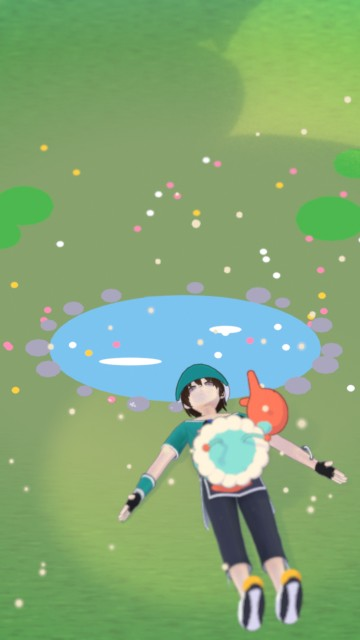
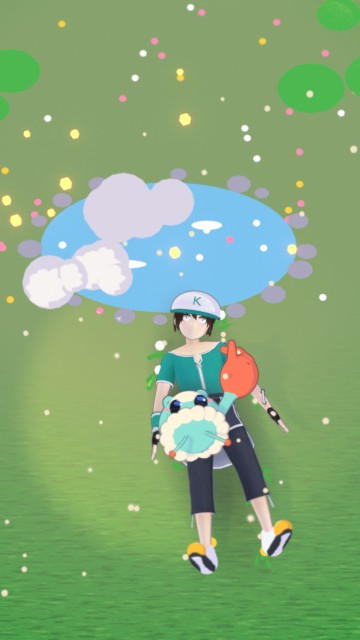
Diorama S01 hook frame: steep from his feet (tilt 70) with the shrimp leaning back on his chest so its big locked-on eyes show under its ruff (as in S16), claw cocked by his cheek, the two of them above the UI band; new OK still
Claude-Session: https://claude.ai/code/session_01PF511bGqrs1SFn3cpk5NqS

diff --git a/channels/monsters/diorama/bgqrs.py b/channels/monsters/diorama/bgqrs.py
@@ -32,7 +32,13 @@ UP = Vector((-math.sin(math.radians(HEAD_DIR)), math.cos(math.radians(HEAD_DIR))
 EAST = Vector((UP.y, -UP.x, 0))       # his left side (screen right from the south), where the shrimp's claw is
 LEAN = 40.0                           # the shrimp leans back on his chest, so its face tips up toward the camera
 BLUR = 12.0
-S01_CAM = (45.0, 60.0, 110.0, 0.0, 3.0)   # S01: tilt, dist, lens, yaw, aim past his eyes toward his head (units)
+# S01 (the hook: the shrimp's big eyes against the cocked claw must read). The puff-shrimp's face sits under its
+# cream ruff, so it shows from above only when the shrimp faces his face and leans back (as in S16); his face shows
+# only from his chin side (lying face up, his cap's brim points at the sky). So: from the south, steep (tilt 70), the
+# shrimp leaning back 50. tilt, dist, lens, yaw, aim offsets toward his head and away from the camera (units); the
+# shrimp's lean back (deg).
+S01_CAM = (70.0, 62.0, 110.0, 0.0, 1.5, 0.0)
+S01_LEAN = 50.0
 
 
 # ---------------------------------------------------------------- the world after the snap
@@ -70,13 +76,14 @@ LYING = [("spine", (0, 0, 1)), ("chest", (0, 0, 1)), ("upper_chest", (0, 0, 1)),
          ("left_foot", (-0.25, 1, -0.3)), ("right_foot", (0.3, 1, -0.3))]
 
 
-def _kai():
+def _kai(head=None):
     """Kai on his back at MAP["kai_down"], relaxed (LYING), head toward the pond; a soft contact shadow under him and
-    grass tufts over his outline, so he lies IN the grass."""
+    grass tufts over his outline, so he lies IN the grass. `head`: another head direction (his own frame)."""
     from channels.monsters.ep01v2 import helper10 as s15
     rig = hero.load((0, 0, 0), scale=s3d.KAI_SCALE, outfit="world")
     rot = (math.pi / 2, 0, math.pi + math.radians(HEAD_DIR))
-    s15._pose(rig, LYING, (HIPS[0], HIPS[1], 0.5), rot)
+    spec = [(b, head if (b == "head" and head) else d) for b, d in LYING]
+    s15._pose(rig, spec, (HIPS[0], HIPS[1], 0.5), rot)
     hip = s15._world(rig, "hips")
     rig["arm"].location += Vector((HIPS[0] - hip.x, HIPS[1] - hip.y, 0))
     s15._ground(rig)
@@ -110,15 +117,16 @@ def _tufts(hip, seed=21):
             bpy.context.object.data.materials.append(rnd.choice(petals))
 
 
-def _shrimp(rig, n, claw="face"):
+def _shrimp(rig, n, claw="face", yaw=None, lean=LEAN, side=1):
     """Low on his chest, facing his face, leaning back. claw="face": cocked beside his face, pointing at it (S01's
     threat); "jacket": held out over his chest so its drops land on the jacket (S17). Breathes on 2s."""
-    sh = s3d._shrimp(rig, yaw=180 + HEAD_DIR, chest_offset=tuple(-UP * 0.55 + Vector((0, 0, 0.15))))
-    sh["root"].rotation_euler = (math.radians(-LEAN), 0, math.radians(180 + HEAD_DIR))
+    yaw = 180 + HEAD_DIR if yaw is None else yaw
+    sh = s3d._shrimp(rig, yaw=yaw, chest_offset=tuple(-UP * 0.55 + Vector((0, 0, 0.15))))
+    sh["root"].rotation_euler = (math.radians(-lean), 0, math.radians(yaw))
     bpy.context.view_layer.update()
     nose = s3d.kai_point(rig, "nose")
     if claw == "face":
-        sh["cock"] = s3d.raise_claw(sh, nose + EAST * 1.3 - UP * 0.4 + Vector((0, 0, 1.6)), nose)
+        sh["cock"] = s3d.raise_claw(sh, nose + EAST * 1.3 * side - UP * 0.4 + Vector((0, 0, 1.6)), nose)
         s3d.cock(sh, 1)
     else:
         sh["cock"] = _over_jacket(sh, rig)
@@ -185,12 +193,12 @@ def _dust(rig, n, count=46, seed=8):
         anim.key(o, "scale", f1, 0.2, "LINEAR")
 
 
-def _world(shot, claw="face"):
+def _world(shot, claw="face", head=None, **shrimp):
     n = FRAMES[shot]
     diorama.setup()
     stumps = _set(n)
-    rig = _kai()
-    sh = _shrimp(rig, n, claw)
+    rig = _kai(head)
+    sh = _shrimp(rig, n, claw, **shrimp)
     diorama.sunbeam(s3d.kai_point(rig, "chest"), radius=7.0)     # shared: the same light on him S15-S21
     _dust(rig, n)
     sc = bpy.context.scene
@@ -311,17 +319,19 @@ def _drift(n, box, seed=13):
 # ---------------------------------------------------------------- the shots
 
 def s01():
-    """FRAME 0, the hook: from the south and above, Kai on his back with the shrimp on his chest (its claw cocked at his
-    face, eyes locked on), the erased forest's glowing, smoking stumps mid-frame behind them; the big hook text sits
-    over the far forest at the top, with smoke wisps and embers drifting across the top third (on 2s). Kai whispers
+    """FRAME 0, the hook: from his feet and high above, Kai on his back, the shrimp on his chest leaning back so its big
+    locked-on eyes show (on his face), its claw cocked by his cheek. The big hook text sits at the top, over smoke wisps and embers drifting across the top third from
+    the stumps beyond the frame (on 2s). Kai whispers
     (lips on 3s), terror face. Locked camera (step 2); the slow push-in is added in 2D."""
-    n, rig, sh, _ = _world("S01")
-    t, d, lens, yaw, up = S01_CAM
-    aim = s3d.kai_point(rig, "eyes") + UP * up                    # his face mid-frame, the pond above his head
+    n, rig, sh, _ = _world("S01", lean=S01_LEAN)
+    t, d, lens, yaw, up, far = S01_CAM
+    fwd = Vector((math.sin(math.radians(yaw)), math.cos(math.radians(yaw)), 0))   # away from the camera
+    pair = s3d.kai_point(rig, "eyes").lerp(sh["root"].matrix_world.translation, 0.5)
+    aim = pair + UP * up + fwd * far                               # the two of them below the middle, the top free
     cam = diorama.camera("cam_s01", aim, dist=d, tilt=t, yaw=yaw, lens=lens, blur=BLUR)
     _move(cam, n, [(1, t, d, lens), (n, t, d, lens)], lambda f: aim, yaw=yaw)   # locked: the push-in is 2D
-    pond = diorama.MAP["pond"]
-    _drift(n, ((pond[0] - 9, pond[0] + 11), (pond[1] - 1, pond[1] + 9), (2.0, 6.0)))   # the top third
+    c = pair + fwd * 8                                             # the top third: beyond them, away from the lens
+    _drift(n, ((c.x - 6, c.x + 6), (c.y - 9, c.y + 9), (2.0, 6.0)))
     s3d.kai_face(rig, 1, **s3d.TERROR)
     s3d.whisper(rig, 4, 13, s3d.TERROR)                            # "Don't move." 0.12-0.52 s
     s3d.whisper(rig, 26, 51, s3d.TERROR, seed=5)                   # "That claw can boil water." 1.04-2.12 s
